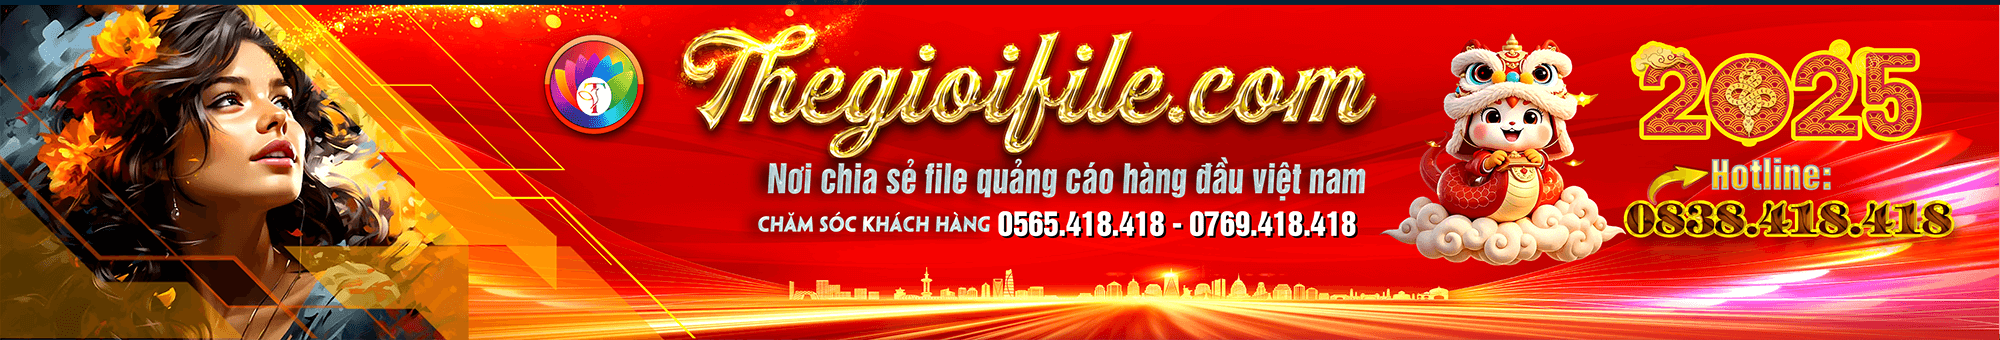
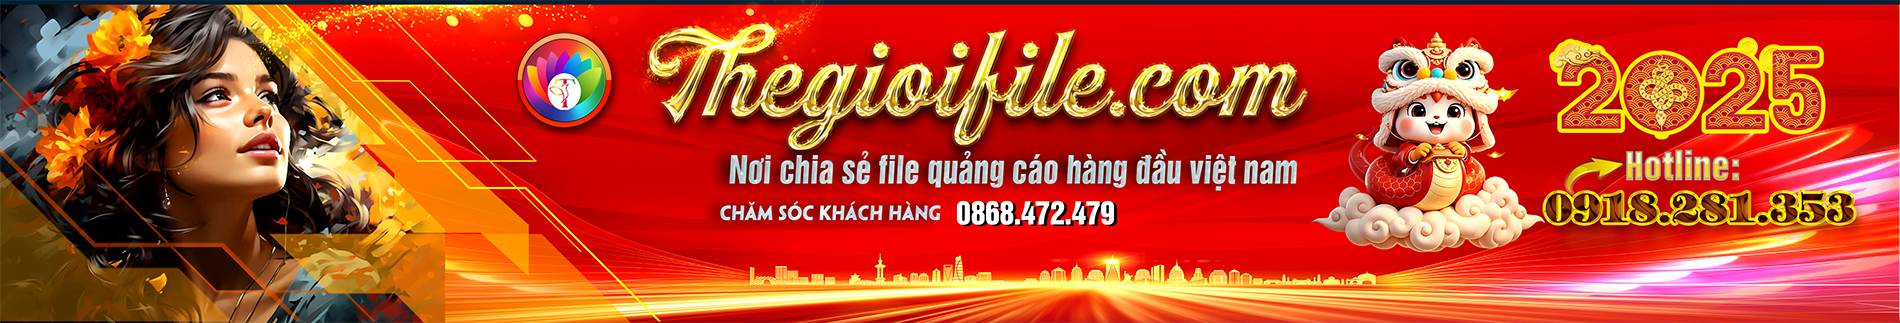
update page

diff --git a/lien-he.html b/lien-he.html
@@ -139,7 +139,7 @@
 				<span></span>
 			</div>
 		</header>
-		<marquee>Nhận Cài Đặt Các Phần Mềm Đồ Họa Corel, Photoshop, AI, Sketchup, Vray, Encape, Autocad, Adobe Premie... Theo Yêu Cầu, Cài tất cả Driver Các Loại Máy In - Photo Máy Cắt Decal: Hỗ trợ cài đặt Hotline Zalo 0838.418.418 - CSKH 0565.418.418 –  0769.418.418 - Uy Tín - Chất Lượng.&ensp;&ensp;&ensp;&ensp;&ensp;&ensp;&ensp;&ensp;&ensp;&ensp;Nhận Cài Đặt Các Phần Mềm Đồ Họa Corel, Photoshop, AI, Sketchup, Vray, Encape, Autocad, Adobe Premie... Theo Yêu Cầu, Cài tất cả Driver Các Loại Máy In - Photo Máy Cắt Decal: Hỗ trợ cài đặt Hotline Zalo 0838.418.418 - CSKH 0565.418.418 –  0769.418.418 - Uy Tín - Chất Lượng.&ensp;&ensp;&ensp;&ensp;&ensp;&ensp;&ensp;&ensp;&ensp;&ensp;Nhận Cài Đặt Các Phần Mềm Đồ Họa Corel, Photoshop, AI, Sketchup, Vray, Encape, Autocad, Adobe Premie... Theo Yêu Cầu, Cài tất cả Driver Các Loại Máy In - Photo Máy Cắt Decal: Hỗ trợ cài đặt Hotline Zalo 0838.418.418 - CSKH 0565.418.418 –  0769.418.418 - Uy Tín - Chất Lượng.&ensp;&ensp;&ensp;&ensp;&ensp;&ensp;&ensp;&ensp;&ensp;&ensp;Nhận Cài Đặt Các Phần Mềm Đồ Họa Corel, Photoshop, AI, Sketchup, Vray, Encape, Autocad, Adobe Premie... Theo Yêu Cầu, Cài tất cả Driver Các Loại Máy In - Photo Máy Cắt Decal: Hỗ trợ cài đặt Hotline Zalo 0838.418.418 - CSKH 0565.418.418 –  0769.418.418 - Uy Tín - Chất Lượng.&ensp;&ensp;&ensp;&ensp;&ensp;&ensp;&ensp;&ensp;&ensp;&ensp;Nhận Cài Đặt Các Phần Mềm Đồ Họa Corel, Photoshop, AI, Sketchup, Vray, Encape, Autocad, Adobe Premie... Theo Yêu Cầu, Cài tất cả Driver Các Loại Máy In - Photo Máy Cắt Decal: Hỗ trợ cài đặt Hotline Zalo 0838.418.418 - CSKH 0565.418.418 –  0769.418.418 - Uy Tín - Chất Lượng.&ensp;&ensp;&ensp;&ensp;&ensp;&ensp;&ensp;&ensp;&ensp;&ensp;Nhận Cài Đặt Các Phần Mềm Đồ Họa Corel, Photoshop, AI, Sketchup, Vray, Encape, Autocad, Adobe Premie... Theo Yêu Cầu, Cài tất cả Driver Các Loại Máy In - Photo Máy Cắt Decal: Hỗ trợ cài đặt Hotline Zalo 0838.418.418 - CSKH 0565.418.418 –  0769.418.418 - Uy Tín - Chất Lượng.&ensp;&ensp;&ensp;&ensp;&ensp;&ensp;&ensp;&ensp;&ensp;&ensp;Nhận Cài Đặt Các Phần Mềm Đồ Họa Corel, Photoshop, AI, Sketchup, Vray, Encape, Autocad, Adobe Premie... Theo Yêu Cầu, Cài tất cả Driver Các Loại Máy In - Photo Máy Cắt Decal: Hỗ trợ cài đặt Hotline Zalo 0838.418.418 - CSKH 0565.418.418 –  0769.418.418 - Uy Tín - Chất Lượng.&ensp;&ensp;&ensp;&ensp;&ensp;&ensp;&ensp;&ensp;&ensp;&ensp;Nhận Cài Đặt Các Phần Mềm Đồ Họa Corel, Photoshop, AI, Sketchup, Vray, Encape, Autocad, Adobe Premie... Theo Yêu Cầu, Cài tất cả Driver Các Loại Máy In - Photo Máy Cắt Decal: Hỗ trợ cài đặt Hotline Zalo 0838.418.418 - CSKH 0565.418.418 –  0769.418.418 - Uy Tín - Chất Lượng.&ensp;&ensp;&ensp;&ensp;&ensp;&ensp;&ensp;&ensp;&ensp;&ensp;Nhận Cài Đặt Các Phần Mềm Đồ Họa Corel, Photoshop, AI, Sketchup, Vray, Encape, Autocad, Adobe Premie... Theo Yêu Cầu, Cài tất cả Driver Các Loại Máy In - Photo Máy Cắt Decal: Hỗ trợ cài đặt Hotline Zalo 0838.418.418 - CSKH 0565.418.418 –  0769.418.418 - Uy Tín - Chất Lượng.&ensp;&ensp;&ensp;&ensp;&ensp;&ensp;&ensp;&ensp;&ensp;&ensp;Nhận Cài Đặt Các Phần Mềm Đồ Họa Corel, Photoshop, AI, Sketchup, Vray, Encape, Autocad, Adobe Premie... Theo Yêu Cầu, Cài tất cả Driver Các Loại Máy In - Photo Máy Cắt Decal: Hỗ trợ cài đặt Hotline Zalo 0838.418.418 - CSKH 0565.418.418 –  0769.418.418 - Uy Tín - Chất Lượng.&ensp;&ensp;&ensp;&ensp;&ensp;&ensp;&ensp;&ensp;&ensp;&ensp;</marquee>
+		<marquee>Nhận Cài Đặt Các Phần Mềm Đồ Họa Corel, Photoshop, AI, Sketchup, Vray, Encape, Autocad, Adobe Premie... Theo Yêu Cầu, Cài tất cả Driver Các Loại Máy In - Photo Máy Cắt Decal: Hỗ trợ cài đặt Hotline Zalo 0918.281.353 - CSKH 0565.418.418 –  0769.418.418 - Uy Tín - Chất Lượng.&ensp;&ensp;&ensp;&ensp;&ensp;&ensp;&ensp;&ensp;&ensp;&ensp;Nhận Cài Đặt Các Phần Mềm Đồ Họa Corel, Photoshop, AI, Sketchup, Vray, Encape, Autocad, Adobe Premie... Theo Yêu Cầu, Cài tất cả Driver Các Loại Máy In - Photo Máy Cắt Decal: Hỗ trợ cài đặt Hotline Zalo 0918.281.353 - CSKH 0565.418.418 –  0769.418.418 - Uy Tín - Chất Lượng.&ensp;&ensp;&ensp;&ensp;&ensp;&ensp;&ensp;&ensp;&ensp;&ensp;Nhận Cài Đặt Các Phần Mềm Đồ Họa Corel, Photoshop, AI, Sketchup, Vray, Encape, Autocad, Adobe Premie... Theo Yêu Cầu, Cài tất cả Driver Các Loại Máy In - Photo Máy Cắt Decal: Hỗ trợ cài đặt Hotline Zalo 0918.281.353 - CSKH 0565.418.418 –  0769.418.418 - Uy Tín - Chất Lượng.&ensp;&ensp;&ensp;&ensp;&ensp;&ensp;&ensp;&ensp;&ensp;&ensp;Nhận Cài Đặt Các Phần Mềm Đồ Họa Corel, Photoshop, AI, Sketchup, Vray, Encape, Autocad, Adobe Premie... Theo Yêu Cầu, Cài tất cả Driver Các Loại Máy In - Photo Máy Cắt Decal: Hỗ trợ cài đặt Hotline Zalo 0918.281.353 - CSKH 0565.418.418 –  0769.418.418 - Uy Tín - Chất Lượng.&ensp;&ensp;&ensp;&ensp;&ensp;&ensp;&ensp;&ensp;&ensp;&ensp;Nhận Cài Đặt Các Phần Mềm Đồ Họa Corel, Photoshop, AI, Sketchup, Vray, Encape, Autocad, Adobe Premie... Theo Yêu Cầu, Cài tất cả Driver Các Loại Máy In - Photo Máy Cắt Decal: Hỗ trợ cài đặt Hotline Zalo 0918.281.353 - CSKH 0565.418.418 –  0769.418.418 - Uy Tín - Chất Lượng.&ensp;&ensp;&ensp;&ensp;&ensp;&ensp;&ensp;&ensp;&ensp;&ensp;Nhận Cài Đặt Các Phần Mềm Đồ Họa Corel, Photoshop, AI, Sketchup, Vray, Encape, Autocad, Adobe Premie... Theo Yêu Cầu, Cài tất cả Driver Các Loại Máy In - Photo Máy Cắt Decal: Hỗ trợ cài đặt Hotline Zalo 0918.281.353 - CSKH 0565.418.418 –  0769.418.418 - Uy Tín - Chất Lượng.&ensp;&ensp;&ensp;&ensp;&ensp;&ensp;&ensp;&ensp;&ensp;&ensp;Nhận Cài Đặt Các Phần Mềm Đồ Họa Corel, Photoshop, AI, Sketchup, Vray, Encape, Autocad, Adobe Premie... Theo Yêu Cầu, Cài tất cả Driver Các Loại Máy In - Photo Máy Cắt Decal: Hỗ trợ cài đặt Hotline Zalo 0918.281.353 - CSKH 0565.418.418 –  0769.418.418 - Uy Tín - Chất Lượng.&ensp;&ensp;&ensp;&ensp;&ensp;&ensp;&ensp;&ensp;&ensp;&ensp;Nhận Cài Đặt Các Phần Mềm Đồ Họa Corel, Photoshop, AI, Sketchup, Vray, Encape, Autocad, Adobe Premie... Theo Yêu Cầu, Cài tất cả Driver Các Loại Máy In - Photo Máy Cắt Decal: Hỗ trợ cài đặt Hotline Zalo 0918.281.353 - CSKH 0565.418.418 –  0769.418.418 - Uy Tín - Chất Lượng.&ensp;&ensp;&ensp;&ensp;&ensp;&ensp;&ensp;&ensp;&ensp;&ensp;Nhận Cài Đặt Các Phần Mềm Đồ Họa Corel, Photoshop, AI, Sketchup, Vray, Encape, Autocad, Adobe Premie... Theo Yêu Cầu, Cài tất cả Driver Các Loại Máy In - Photo Máy Cắt Decal: Hỗ trợ cài đặt Hotline Zalo 0918.281.353 - CSKH 0565.418.418 –  0769.418.418 - Uy Tín - Chất Lượng.&ensp;&ensp;&ensp;&ensp;&ensp;&ensp;&ensp;&ensp;&ensp;&ensp;Nhận Cài Đặt Các Phần Mềm Đồ Họa Corel, Photoshop, AI, Sketchup, Vray, Encape, Autocad, Adobe Premie... Theo Yêu Cầu, Cài tất cả Driver Các Loại Máy In - Photo Máy Cắt Decal: Hỗ trợ cài đặt Hotline Zalo 0918.281.353 - CSKH 0565.418.418 –  0769.418.418 - Uy Tín - Chất Lượng.&ensp;&ensp;&ensp;&ensp;&ensp;&ensp;&ensp;&ensp;&ensp;&ensp;</marquee>
 		<!-- <div class="banner">
 			<img src="./images/banner.png" alt="">
 			<a href="https://www.facebook.com/groups/1332517217738882" target="_blank">

diff --git a/home-page.html b/home-page.html
@@ -145,7 +145,7 @@
 				<span></span>
 			</div>
 		</header>
-		<marquee>Nhận Cài Đặt Các Phần Mềm Đồ Họa Corel, Photoshop, AI, Sketchup, Vray, Encape, Autocad, Adobe Premie... Theo Yêu Cầu, Cài tất cả Driver Các Loại Máy In - Photo Máy Cắt Decal: Hỗ trợ cài đặt Hotline Zalo 0838.418.418 - CSKH 0565.418.418 –  0769.418.418 - Uy Tín - Chất Lượng.&ensp;&ensp;&ensp;&ensp;&ensp;&ensp;&ensp;&ensp;&ensp;&ensp;Nhận Cài Đặt Các Phần Mềm Đồ Họa Corel, Photoshop, AI, Sketchup, Vray, Encape, Autocad, Adobe Premie... Theo Yêu Cầu, Cài tất cả Driver Các Loại Máy In - Photo Máy Cắt Decal: Hỗ trợ cài đặt Hotline Zalo 0838.418.418 - CSKH 0565.418.418 –  0769.418.418 - Uy Tín - Chất Lượng.&ensp;&ensp;&ensp;&ensp;&ensp;&ensp;&ensp;&ensp;&ensp;&ensp;Nhận Cài Đặt Các Phần Mềm Đồ Họa Corel, Photoshop, AI, Sketchup, Vray, Encape, Autocad, Adobe Premie... Theo Yêu Cầu, Cài tất cả Driver Các Loại Máy In - Photo Máy Cắt Decal: Hỗ trợ cài đặt Hotline Zalo 0838.418.418 - CSKH 0565.418.418 –  0769.418.418 - Uy Tín - Chất Lượng.&ensp;&ensp;&ensp;&ensp;&ensp;&ensp;&ensp;&ensp;&ensp;&ensp;Nhận Cài Đặt Các Phần Mềm Đồ Họa Corel, Photoshop, AI, Sketchup, Vray, Encape, Autocad, Adobe Premie... Theo Yêu Cầu, Cài tất cả Driver Các Loại Máy In - Photo Máy Cắt Decal: Hỗ trợ cài đặt Hotline Zalo 0838.418.418 - CSKH 0565.418.418 –  0769.418.418 - Uy Tín - Chất Lượng.&ensp;&ensp;&ensp;&ensp;&ensp;&ensp;&ensp;&ensp;&ensp;&ensp;Nhận Cài Đặt Các Phần Mềm Đồ Họa Corel, Photoshop, AI, Sketchup, Vray, Encape, Autocad, Adobe Premie... Theo Yêu Cầu, Cài tất cả Driver Các Loại Máy In - Photo Máy Cắt Decal: Hỗ trợ cài đặt Hotline Zalo 0838.418.418 - CSKH 0565.418.418 –  0769.418.418 - Uy Tín - Chất Lượng.&ensp;&ensp;&ensp;&ensp;&ensp;&ensp;&ensp;&ensp;&ensp;&ensp;Nhận Cài Đặt Các Phần Mềm Đồ Họa Corel, Photoshop, AI, Sketchup, Vray, Encape, Autocad, Adobe Premie... Theo Yêu Cầu, Cài tất cả Driver Các Loại Máy In - Photo Máy Cắt Decal: Hỗ trợ cài đặt Hotline Zalo 0838.418.418 - CSKH 0565.418.418 –  0769.418.418 - Uy Tín - Chất Lượng.&ensp;&ensp;&ensp;&ensp;&ensp;&ensp;&ensp;&ensp;&ensp;&ensp;Nhận Cài Đặt Các Phần Mềm Đồ Họa Corel, Photoshop, AI, Sketchup, Vray, Encape, Autocad, Adobe Premie... Theo Yêu Cầu, Cài tất cả Driver Các Loại Máy In - Photo Máy Cắt Decal: Hỗ trợ cài đặt Hotline Zalo 0838.418.418 - CSKH 0565.418.418 –  0769.418.418 - Uy Tín - Chất Lượng.&ensp;&ensp;&ensp;&ensp;&ensp;&ensp;&ensp;&ensp;&ensp;&ensp;Nhận Cài Đặt Các Phần Mềm Đồ Họa Corel, Photoshop, AI, Sketchup, Vray, Encape, Autocad, Adobe Premie... Theo Yêu Cầu, Cài tất cả Driver Các Loại Máy In - Photo Máy Cắt Decal: Hỗ trợ cài đặt Hotline Zalo 0838.418.418 - CSKH 0565.418.418 –  0769.418.418 - Uy Tín - Chất Lượng.&ensp;&ensp;&ensp;&ensp;&ensp;&ensp;&ensp;&ensp;&ensp;&ensp;Nhận Cài Đặt Các Phần Mềm Đồ Họa Corel, Photoshop, AI, Sketchup, Vray, Encape, Autocad, Adobe Premie... Theo Yêu Cầu, Cài tất cả Driver Các Loại Máy In - Photo Máy Cắt Decal: Hỗ trợ cài đặt Hotline Zalo 0838.418.418 - CSKH 0565.418.418 –  0769.418.418 - Uy Tín - Chất Lượng.&ensp;&ensp;&ensp;&ensp;&ensp;&ensp;&ensp;&ensp;&ensp;&ensp;Nhận Cài Đặt Các Phần Mềm Đồ Họa Corel, Photoshop, AI, Sketchup, Vray, Encape, Autocad, Adobe Premie... Theo Yêu Cầu, Cài tất cả Driver Các Loại Máy In - Photo Máy Cắt Decal: Hỗ trợ cài đặt Hotline Zalo 0838.418.418 - CSKH 0565.418.418 –  0769.418.418 - Uy Tín - Chất Lượng.&ensp;&ensp;&ensp;&ensp;&ensp;&ensp;&ensp;&ensp;&ensp;&ensp;</marquee>
+		<marquee>Nhận Cài Đặt Các Phần Mềm Đồ Họa Corel, Photoshop, AI, Sketchup, Vray, Encape, Autocad, Adobe Premie... Theo Yêu Cầu, Cài tất cả Driver Các Loại Máy In - Photo Máy Cắt Decal: Hỗ trợ cài đặt Hotline Zalo 0918.281.353 - CSKH 0565.418.418 –  0769.418.418 - Uy Tín - Chất Lượng.&ensp;&ensp;&ensp;&ensp;&ensp;&ensp;&ensp;&ensp;&ensp;&ensp;Nhận Cài Đặt Các Phần Mềm Đồ Họa Corel, Photoshop, AI, Sketchup, Vray, Encape, Autocad, Adobe Premie... Theo Yêu Cầu, Cài tất cả Driver Các Loại Máy In - Photo Máy Cắt Decal: Hỗ trợ cài đặt Hotline Zalo 0918.281.353 - CSKH 0565.418.418 –  0769.418.418 - Uy Tín - Chất Lượng.&ensp;&ensp;&ensp;&ensp;&ensp;&ensp;&ensp;&ensp;&ensp;&ensp;Nhận Cài Đặt Các Phần Mềm Đồ Họa Corel, Photoshop, AI, Sketchup, Vray, Encape, Autocad, Adobe Premie... Theo Yêu Cầu, Cài tất cả Driver Các Loại Máy In - Photo Máy Cắt Decal: Hỗ trợ cài đặt Hotline Zalo 0918.281.353 - CSKH 0565.418.418 –  0769.418.418 - Uy Tín - Chất Lượng.&ensp;&ensp;&ensp;&ensp;&ensp;&ensp;&ensp;&ensp;&ensp;&ensp;Nhận Cài Đặt Các Phần Mềm Đồ Họa Corel, Photoshop, AI, Sketchup, Vray, Encape, Autocad, Adobe Premie... Theo Yêu Cầu, Cài tất cả Driver Các Loại Máy In - Photo Máy Cắt Decal: Hỗ trợ cài đặt Hotline Zalo 0918.281.353 - CSKH 0565.418.418 –  0769.418.418 - Uy Tín - Chất Lượng.&ensp;&ensp;&ensp;&ensp;&ensp;&ensp;&ensp;&ensp;&ensp;&ensp;Nhận Cài Đặt Các Phần Mềm Đồ Họa Corel, Photoshop, AI, Sketchup, Vray, Encape, Autocad, Adobe Premie... Theo Yêu Cầu, Cài tất cả Driver Các Loại Máy In - Photo Máy Cắt Decal: Hỗ trợ cài đặt Hotline Zalo 0918.281.353 - CSKH 0565.418.418 –  0769.418.418 - Uy Tín - Chất Lượng.&ensp;&ensp;&ensp;&ensp;&ensp;&ensp;&ensp;&ensp;&ensp;&ensp;Nhận Cài Đặt Các Phần Mềm Đồ Họa Corel, Photoshop, AI, Sketchup, Vray, Encape, Autocad, Adobe Premie... Theo Yêu Cầu, Cài tất cả Driver Các Loại Máy In - Photo Máy Cắt Decal: Hỗ trợ cài đặt Hotline Zalo 0918.281.353 - CSKH 0565.418.418 –  0769.418.418 - Uy Tín - Chất Lượng.&ensp;&ensp;&ensp;&ensp;&ensp;&ensp;&ensp;&ensp;&ensp;&ensp;Nhận Cài Đặt Các Phần Mềm Đồ Họa Corel, Photoshop, AI, Sketchup, Vray, Encape, Autocad, Adobe Premie... Theo Yêu Cầu, Cài tất cả Driver Các Loại Máy In - Photo Máy Cắt Decal: Hỗ trợ cài đặt Hotline Zalo 0918.281.353 - CSKH 0565.418.418 –  0769.418.418 - Uy Tín - Chất Lượng.&ensp;&ensp;&ensp;&ensp;&ensp;&ensp;&ensp;&ensp;&ensp;&ensp;Nhận Cài Đặt Các Phần Mềm Đồ Họa Corel, Photoshop, AI, Sketchup, Vray, Encape, Autocad, Adobe Premie... Theo Yêu Cầu, Cài tất cả Driver Các Loại Máy In - Photo Máy Cắt Decal: Hỗ trợ cài đặt Hotline Zalo 0918.281.353 - CSKH 0565.418.418 –  0769.418.418 - Uy Tín - Chất Lượng.&ensp;&ensp;&ensp;&ensp;&ensp;&ensp;&ensp;&ensp;&ensp;&ensp;Nhận Cài Đặt Các Phần Mềm Đồ Họa Corel, Photoshop, AI, Sketchup, Vray, Encape, Autocad, Adobe Premie... Theo Yêu Cầu, Cài tất cả Driver Các Loại Máy In - Photo Máy Cắt Decal: Hỗ trợ cài đặt Hotline Zalo 0918.281.353 - CSKH 0565.418.418 –  0769.418.418 - Uy Tín - Chất Lượng.&ensp;&ensp;&ensp;&ensp;&ensp;&ensp;&ensp;&ensp;&ensp;&ensp;Nhận Cài Đặt Các Phần Mềm Đồ Họa Corel, Photoshop, AI, Sketchup, Vray, Encape, Autocad, Adobe Premie... Theo Yêu Cầu, Cài tất cả Driver Các Loại Máy In - Photo Máy Cắt Decal: Hỗ trợ cài đặt Hotline Zalo 0918.281.353 - CSKH 0565.418.418 –  0769.418.418 - Uy Tín - Chất Lượng.&ensp;&ensp;&ensp;&ensp;&ensp;&ensp;&ensp;&ensp;&ensp;&ensp;</marquee>
 		<div class="banner">
 			<img src="./images/banner.png" alt="">
 			<a href="https://www.facebook.com/groups/1332517217738882" target="_blank">

diff --git a/tai-file.html b/tai-file.html
@@ -139,7 +139,7 @@
 				<span></span>
 			</div>
 		</header>
-		<marquee>Nhận Cài Đặt Các Phần Mềm Đồ Họa Corel, Photoshop, AI, Sketchup, Vray, Encape, Autocad, Adobe Premie... Theo Yêu Cầu, Cài tất cả Driver Các Loại Máy In - Photo Máy Cắt Decal: Hỗ trợ cài đặt Hotline Zalo 0838.418.418 - CSKH 0565.418.418 –  0769.418.418 - Uy Tín - Chất Lượng.&ensp;&ensp;&ensp;&ensp;&ensp;&ensp;&ensp;&ensp;&ensp;&ensp;Nhận Cài Đặt Các Phần Mềm Đồ Họa Corel, Photoshop, AI, Sketchup, Vray, Encape, Autocad, Adobe Premie... Theo Yêu Cầu, Cài tất cả Driver Các Loại Máy In - Photo Máy Cắt Decal: Hỗ trợ cài đặt Hotline Zalo 0838.418.418 - CSKH 0565.418.418 –  0769.418.418 - Uy Tín - Chất Lượng.&ensp;&ensp;&ensp;&ensp;&ensp;&ensp;&ensp;&ensp;&ensp;&ensp;Nhận Cài Đặt Các Phần Mềm Đồ Họa Corel, Photoshop, AI, Sketchup, Vray, Encape, Autocad, Adobe Premie... Theo Yêu Cầu, Cài tất cả Driver Các Loại Máy In - Photo Máy Cắt Decal: Hỗ trợ cài đặt Hotline Zalo 0838.418.418 - CSKH 0565.418.418 –  0769.418.418 - Uy Tín - Chất Lượng.&ensp;&ensp;&ensp;&ensp;&ensp;&ensp;&ensp;&ensp;&ensp;&ensp;Nhận Cài Đặt Các Phần Mềm Đồ Họa Corel, Photoshop, AI, Sketchup, Vray, Encape, Autocad, Adobe Premie... Theo Yêu Cầu, Cài tất cả Driver Các Loại Máy In - Photo Máy Cắt Decal: Hỗ trợ cài đặt Hotline Zalo 0838.418.418 - CSKH 0565.418.418 –  0769.418.418 - Uy Tín - Chất Lượng.&ensp;&ensp;&ensp;&ensp;&ensp;&ensp;&ensp;&ensp;&ensp;&ensp;Nhận Cài Đặt Các Phần Mềm Đồ Họa Corel, Photoshop, AI, Sketchup, Vray, Encape, Autocad, Adobe Premie... Theo Yêu Cầu, Cài tất cả Driver Các Loại Máy In - Photo Máy Cắt Decal: Hỗ trợ cài đặt Hotline Zalo 0838.418.418 - CSKH 0565.418.418 –  0769.418.418 - Uy Tín - Chất Lượng.&ensp;&ensp;&ensp;&ensp;&ensp;&ensp;&ensp;&ensp;&ensp;&ensp;Nhận Cài Đặt Các Phần Mềm Đồ Họa Corel, Photoshop, AI, Sketchup, Vray, Encape, Autocad, Adobe Premie... Theo Yêu Cầu, Cài tất cả Driver Các Loại Máy In - Photo Máy Cắt Decal: Hỗ trợ cài đặt Hotline Zalo 0838.418.418 - CSKH 0565.418.418 –  0769.418.418 - Uy Tín - Chất Lượng.&ensp;&ensp;&ensp;&ensp;&ensp;&ensp;&ensp;&ensp;&ensp;&ensp;Nhận Cài Đặt Các Phần Mềm Đồ Họa Corel, Photoshop, AI, Sketchup, Vray, Encape, Autocad, Adobe Premie... Theo Yêu Cầu, Cài tất cả Driver Các Loại Máy In - Photo Máy Cắt Decal: Hỗ trợ cài đặt Hotline Zalo 0838.418.418 - CSKH 0565.418.418 –  0769.418.418 - Uy Tín - Chất Lượng.&ensp;&ensp;&ensp;&ensp;&ensp;&ensp;&ensp;&ensp;&ensp;&ensp;Nhận Cài Đặt Các Phần Mềm Đồ Họa Corel, Photoshop, AI, Sketchup, Vray, Encape, Autocad, Adobe Premie... Theo Yêu Cầu, Cài tất cả Driver Các Loại Máy In - Photo Máy Cắt Decal: Hỗ trợ cài đặt Hotline Zalo 0838.418.418 - CSKH 0565.418.418 –  0769.418.418 - Uy Tín - Chất Lượng.&ensp;&ensp;&ensp;&ensp;&ensp;&ensp;&ensp;&ensp;&ensp;&ensp;Nhận Cài Đặt Các Phần Mềm Đồ Họa Corel, Photoshop, AI, Sketchup, Vray, Encape, Autocad, Adobe Premie... Theo Yêu Cầu, Cài tất cả Driver Các Loại Máy In - Photo Máy Cắt Decal: Hỗ trợ cài đặt Hotline Zalo 0838.418.418 - CSKH 0565.418.418 –  0769.418.418 - Uy Tín - Chất Lượng.&ensp;&ensp;&ensp;&ensp;&ensp;&ensp;&ensp;&ensp;&ensp;&ensp;Nhận Cài Đặt Các Phần Mềm Đồ Họa Corel, Photoshop, AI, Sketchup, Vray, Encape, Autocad, Adobe Premie... Theo Yêu Cầu, Cài tất cả Driver Các Loại Máy In - Photo Máy Cắt Decal: Hỗ trợ cài đặt Hotline Zalo 0838.418.418 - CSKH 0565.418.418 –  0769.418.418 - Uy Tín - Chất Lượng.&ensp;&ensp;&ensp;&ensp;&ensp;&ensp;&ensp;&ensp;&ensp;&ensp;</marquee>
+		<marquee>Nhận Cài Đặt Các Phần Mềm Đồ Họa Corel, Photoshop, AI, Sketchup, Vray, Encape, Autocad, Adobe Premie... Theo Yêu Cầu, Cài tất cả Driver Các Loại Máy In - Photo Máy Cắt Decal: Hỗ trợ cài đặt Hotline Zalo 0918.281.353 - CSKH 0565.418.418 –  0769.418.418 - Uy Tín - Chất Lượng.&ensp;&ensp;&ensp;&ensp;&ensp;&ensp;&ensp;&ensp;&ensp;&ensp;Nhận Cài Đặt Các Phần Mềm Đồ Họa Corel, Photoshop, AI, Sketchup, Vray, Encape, Autocad, Adobe Premie... Theo Yêu Cầu, Cài tất cả Driver Các Loại Máy In - Photo Máy Cắt Decal: Hỗ trợ cài đặt Hotline Zalo 0918.281.353 - CSKH 0565.418.418 –  0769.418.418 - Uy Tín - Chất Lượng.&ensp;&ensp;&ensp;&ensp;&ensp;&ensp;&ensp;&ensp;&ensp;&ensp;Nhận Cài Đặt Các Phần Mềm Đồ Họa Corel, Photoshop, AI, Sketchup, Vray, Encape, Autocad, Adobe Premie... Theo Yêu Cầu, Cài tất cả Driver Các Loại Máy In - Photo Máy Cắt Decal: Hỗ trợ cài đặt Hotline Zalo 0918.281.353 - CSKH 0565.418.418 –  0769.418.418 - Uy Tín - Chất Lượng.&ensp;&ensp;&ensp;&ensp;&ensp;&ensp;&ensp;&ensp;&ensp;&ensp;Nhận Cài Đặt Các Phần Mềm Đồ Họa Corel, Photoshop, AI, Sketchup, Vray, Encape, Autocad, Adobe Premie... Theo Yêu Cầu, Cài tất cả Driver Các Loại Máy In - Photo Máy Cắt Decal: Hỗ trợ cài đặt Hotline Zalo 0918.281.353 - CSKH 0565.418.418 –  0769.418.418 - Uy Tín - Chất Lượng.&ensp;&ensp;&ensp;&ensp;&ensp;&ensp;&ensp;&ensp;&ensp;&ensp;Nhận Cài Đặt Các Phần Mềm Đồ Họa Corel, Photoshop, AI, Sketchup, Vray, Encape, Autocad, Adobe Premie... Theo Yêu Cầu, Cài tất cả Driver Các Loại Máy In - Photo Máy Cắt Decal: Hỗ trợ cài đặt Hotline Zalo 0918.281.353 - CSKH 0565.418.418 –  0769.418.418 - Uy Tín - Chất Lượng.&ensp;&ensp;&ensp;&ensp;&ensp;&ensp;&ensp;&ensp;&ensp;&ensp;Nhận Cài Đặt Các Phần Mềm Đồ Họa Corel, Photoshop, AI, Sketchup, Vray, Encape, Autocad, Adobe Premie... Theo Yêu Cầu, Cài tất cả Driver Các Loại Máy In - Photo Máy Cắt Decal: Hỗ trợ cài đặt Hotline Zalo 0918.281.353 - CSKH 0565.418.418 –  0769.418.418 - Uy Tín - Chất Lượng.&ensp;&ensp;&ensp;&ensp;&ensp;&ensp;&ensp;&ensp;&ensp;&ensp;Nhận Cài Đặt Các Phần Mềm Đồ Họa Corel, Photoshop, AI, Sketchup, Vray, Encape, Autocad, Adobe Premie... Theo Yêu Cầu, Cài tất cả Driver Các Loại Máy In - Photo Máy Cắt Decal: Hỗ trợ cài đặt Hotline Zalo 0918.281.353 - CSKH 0565.418.418 –  0769.418.418 - Uy Tín - Chất Lượng.&ensp;&ensp;&ensp;&ensp;&ensp;&ensp;&ensp;&ensp;&ensp;&ensp;Nhận Cài Đặt Các Phần Mềm Đồ Họa Corel, Photoshop, AI, Sketchup, Vray, Encape, Autocad, Adobe Premie... Theo Yêu Cầu, Cài tất cả Driver Các Loại Máy In - Photo Máy Cắt Decal: Hỗ trợ cài đặt Hotline Zalo 0918.281.353 - CSKH 0565.418.418 –  0769.418.418 - Uy Tín - Chất Lượng.&ensp;&ensp;&ensp;&ensp;&ensp;&ensp;&ensp;&ensp;&ensp;&ensp;Nhận Cài Đặt Các Phần Mềm Đồ Họa Corel, Photoshop, AI, Sketchup, Vray, Encape, Autocad, Adobe Premie... Theo Yêu Cầu, Cài tất cả Driver Các Loại Máy In - Photo Máy Cắt Decal: Hỗ trợ cài đặt Hotline Zalo 0918.281.353 - CSKH 0565.418.418 –  0769.418.418 - Uy Tín - Chất Lượng.&ensp;&ensp;&ensp;&ensp;&ensp;&ensp;&ensp;&ensp;&ensp;&ensp;Nhận Cài Đặt Các Phần Mềm Đồ Họa Corel, Photoshop, AI, Sketchup, Vray, Encape, Autocad, Adobe Premie... Theo Yêu Cầu, Cài tất cả Driver Các Loại Máy In - Photo Máy Cắt Decal: Hỗ trợ cài đặt Hotline Zalo 0918.281.353 - CSKH 0565.418.418 –  0769.418.418 - Uy Tín - Chất Lượng.&ensp;&ensp;&ensp;&ensp;&ensp;&ensp;&ensp;&ensp;&ensp;&ensp;</marquee>
 		<div class="banner">
 			<img src="./images/banner.png" alt="">
 			<a href="https://www.facebook.com/groups/1332517217738882" target="_blank">
